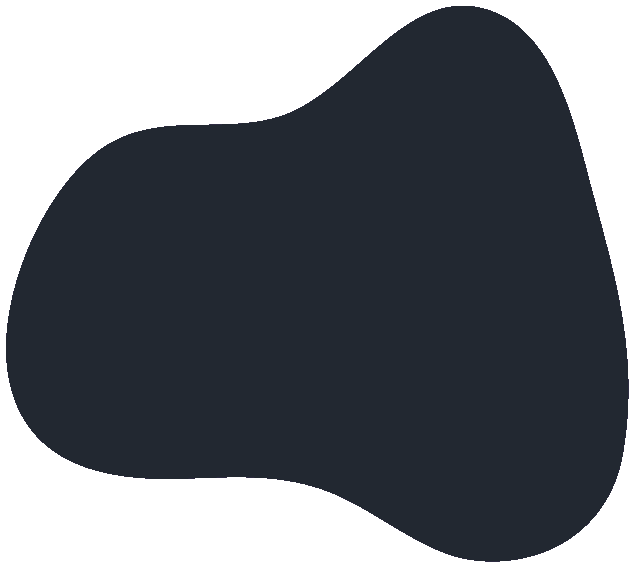
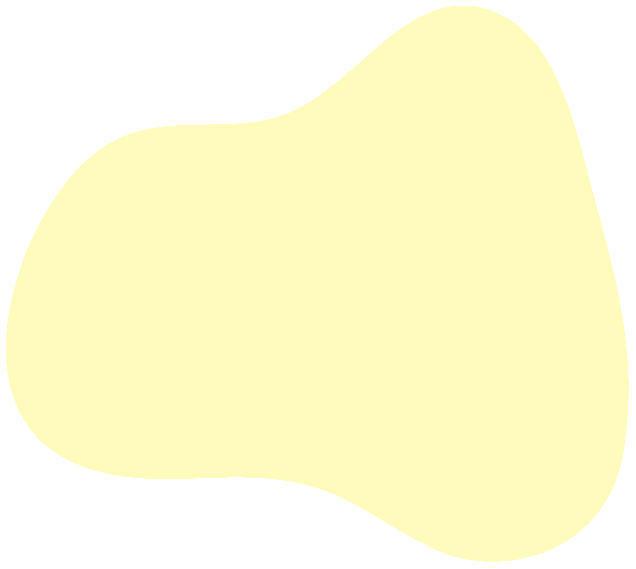
Updates

diff --git a/static/js/main.02143f5f.chunk.js b/static/js/main.02143f5f.chunk.js
@@ -1,0 +1,2 @@
+(this["webpackJsonpsouthern-legal-tech"]=this["webpackJsonpsouthern-legal-tech"]||[]).push([[0],{162:function(e,t,a){},230:function(e,t,a){e.exports=a(424)},235:function(e,t,a){},240:function(e,t,a){},241:function(e,t,a){},242:function(e,t,a){},243:function(e,t,a){},244:function(e,t,a){},247:function(e,t){},249:function(e,t){},289:function(e,t){},290:function(e,t){},423:function(e,t,a){},424:function(e,t,a){"use strict";a.r(t);var n=a(2),s=a.n(n),o=a(216),r=a.n(o),c=a(18),l=(a(235),a(27));function i(){var e=Object(n.useState)(!1),t=Object(c.a)(e,2),a=t[0],o=t[1];return s.a.createElement("div",{className:"header",id:"header"},s.a.createElement(l.b,{to:"/"},s.a.createElement("img",{src:"/southern-second-deploy/images/logo.png",alt:"logo-word",className:"logo-word"})),s.a.createElement("div",{className:a?"navbar drop":"navbar colapse"},s.a.createElement(l.b,{to:"/",className:"nav-element"},"Home",s.a.createElement("div",{className:"navline"})),s.a.createElement(l.b,{to:"/recibo",className:"nav-element"},"Documentos",s.a.createElement("div",{className:"navline"}))),s.a.createElement("i",{onClick:function(e){o((function(e){return!e}))},className:"fas fa-bars"}))}a(240);function m(){return s.a.createElement("div",{style:{marginBottom:80}},s.a.createElement("div",{className:"page-title grid-mobile"},s.a.createElement("div",null,s.a.createElement("h1",null,"La revoluci\xf3n de los documentos legales"),s.a.createElement("p",{className:"subtitle"},"Gener\xe1 tus documentos rapido y f\xe1cil. Contest\xe1 y descarg\xe1! ")),s.a.createElement("div",null," ",s.a.createElement("img",{src:"/southern-second-deploy/images/banderaArgentina.png",className:"image-small banderita"}))),s.a.createElement("div",{className:"grid-2 grid-mobile grid-center menu-grid center-div"},s.a.createElement("div",null,s.a.createElement("img",{src:"/southern-second-deploy/images/mujerdocu.png",className:"banner-image mobile-disapear"})),s.a.createElement("div",{className:"select-box  border-radius"},s.a.createElement("i",{class:"fas fa-file-signature doc-icon"}),s.a.createElement("p",{className:"selecciona"},"Seleccion\xe1 tu documento:"),s.a.createElement("select",{className:"dropdown",name:"documento"},s.a.createElement("option",{value:"",disabled:!0,selected:!0},"Documentos"),s.a.createElement("option",{value:"volvo"},"Alquiler"),s.a.createElement("option",{value:"saab"},"Condominio"),s.a.createElement("option",{value:"fiat"},"Contrato de obra"),s.a.createElement("option",{value:"audi"},"Poder general amplio"))," ",s.a.createElement(l.b,{to:"/recibo",className:"button-standard"},s.a.createElement("i",{class:"fas fa-pencil-alt"})," Comenzar!"),s.a.createElement("img",{src:"/southern-second-deploy/images/logo-grey.png",className:"logo-small"}))),s.a.createElement("h1",null,"Tu documento en minutos"),s.a.createElement("p",{className:"intro"},"Gener\xe1 cualquier documento legal que necesites en minutos. Solo tenes que responder algunas preguntas y nosotros armamos tu archivo con el documento listo para imprimir. Todos nuestros documentos estan validados por el colegio de abogados de la Republica Argentina."),s.a.createElement(l.b,{to:"/recibo",className:"button-standard"},"Comenzar ",s.a.createElement("i",{class:"fas fa-pencil-alt"})))}a(241);function u(){return s.a.createElement("div",{style:{marginBottom:80,marginTop:80}},s.a.createElement("h1",null,"Documentos"),s.a.createElement("div",{className:"doc-list"},s.a.createElement(l.b,{to:"/recibo",className:"doc-item"},"1. Recibo - $250"),s.a.createElement(l.b,{to:"/recibo",className:"doc-item"},"2. Pagar\xe9 - $250"),s.a.createElement(l.b,{to:"/recibo",className:"doc-item"},"3. Acuerdo de confidencialidad - $1500"),s.a.createElement(l.b,{to:"/recibo",className:"doc-item"},"4. Contrato de alquiler - $1500"),s.a.createElement(l.b,{to:"/recibo",className:"doc-item"},"5. Contrato de trabajo - $1500"),"\\            "))}a(242);function d(){return s.a.createElement("div",{className:"footer",id:"footer"},s.a.createElement("img",{src:"/southern-second-deploy/images/logo.png",className:"footer-logo",alt:"zoita wood"}),s.a.createElement("p",null,"Buenos Aires, Argentina"),s.a.createElement("p",null,"Tel / Whatsapp: +54 9 11 4545 9898"),s.a.createElement("a",{href:""},s.a.createElement("i",{className:"fab fa-instagram instagram"})))}a(243);function b(){return s.a.createElement("div",null,s.a.createElement("h1",{style:{marginBottom:30}},"3 Simples Pasos"),s.a.createElement("div",{className:"steps grid-mobile"},s.a.createElement("div",{className:"step mobile-margin"},s.a.createElement("div",{className:"step-box border-radius"},s.a.createElement("img",{src:"/southern-second-deploy/images/blob2.png",className:"blob"}),s.a.createElement("h4",{className:"step-title"},"1. Seleccion\xe1"),s.a.createElement("i",{class:"fas fa-file-signature step-icon "}),s.a.createElement("p",{className:"step-desc"},"Eleg\xed el tipo de documento de una lista de mas de 150 documentos confeccionados por abogados."," "))),s.a.createElement("div",{className:"step mobile-margin"},s.a.createElement("div",{className:"step-box  border-radius"},s.a.createElement("img",{src:"/southern-second-deploy/images/blob2.png",className:"blob"}),s.a.createElement("h4",{className:"step-title"},"2. Contest\xe1"),s.a.createElement("i",{class:"far fa-question-circle step-icon"}),s.a.createElement("p",{className:"step-desc"},"Contest\xe1 una serie de preguntas. A partir de tus respuestas vamos a desarrollar y generar el documento que hayas seleccionado."))),s.a.createElement("div",{className:"step mobile-margin"},s.a.createElement("div",{className:"step-box border-radius"},s.a.createElement("img",{src:"/southern-second-deploy/images/blob2.png",className:"blob"}),s.a.createElement("h4",{className:"step-title"},"3. Imprim\xed"),s.a.createElement("i",{class:"fas fa-print step-icon"}),s.a.createElement("p",{className:"step-desc"},"imprim\xed tu documento 100% terminado y aprobado por el colegio de abogados de la Rep\xfablica Argentina."," ")))),s.a.createElement(l.b,{to:"/create-document",className:"button-standard",style:{width:310}},s.a.createElement("i",{class:"fas fa-file-signature"})," \xa1Seleccion\xe1 tu documento!"))}var E=a(29),p=a(36),g=(a(79),function(e){var t=e.question,a=e.number,o=e.data,r=e.set,l=e.questions,i=e.setQuestions,m=Object(n.useState)(""),u=Object(c.a)(m,2),d=(u[0],u[1]),b=Object(n.useState)(!1),g=Object(c.a)(b,2),f=(g[0],g[1]);return s.a.createElement("form",{className:"form"},s.a.createElement("label",{className:"question"},"".concat(a,". ").concat(t)),s.a.createElement("input",{placeholder:"Respuesta",name:"answer",className:"answer",onChange:function(e){d(e.target.value),""===e.target.value?f(!1):f(!0);var n=Object(p.a)({},o,Object(E.a)({},a,e.target.value));r(n),i(Object(p.a)({},l,Object(E.a)({},a,t)))},value:o[a]}))}),f=function(e){var t=e.question,a=e.number,o=e.options,r=e.set,l=e.data,i=e.setExtra,m=e.questions,u=e.setQuestions,d=Object(n.useState)(""),b=Object(c.a)(d,2),g=b[0],f=b[1],v=Object(n.useState)(!1),q=Object(c.a)(v,2),N=(q[0],q[1]);return s.a.createElement("form",{className:"form"},s.a.createElement("label",{className:"question"},"".concat(a,". ").concat(t)),s.a.createElement("select",Object(E.a)({className:"select",value:g,onChange:function(e){!function(e){f(e.target.value),""===e.target.value?N(!1):N(!0);var n=Object(p.a)({},l,Object(E.a)({},a,e.target.value));r(n),i&&i(e.target.value),u(Object(p.a)({},m,Object(E.a)({},a,t)))}(e)}},"className","answer"),s.a.createElement("option",{value:"none"},"Seleccionar"),o.map((function(e){return s.a.createElement("option",{value:e},e)}))),s.a.createElement("br",null),l[a]&&s.a.createElement("label",null,"Seleccion actual: ",l[a]))},v=["enero","febrero","marzo","abril","mayo","junio","julio","agosto","septiembre","octubre","noviembre","diciembre"],q=function(e){var t=e.question,a=e.number,o=e.set,r=e.data,l=e.questions,i=e.setQuestions,m=Object(n.useState)(""),u=Object(c.a)(m,2),d=(u[0],u[1],Object(n.useState)(!1)),b=Object(c.a)(d,2),g=(b[0],b[1]),f=Object(n.useState)(""),q=Object(c.a)(f,2),N=q[0],j=q[1];return s.a.createElement("form",{className:"form"},s.a.createElement("label",{className:"question"},"".concat(a,".").concat(t)),s.a.createElement("input",{className:"answer",type:"date",value:N,onChange:function(e){!function(e){j(e.target.value),""===e.target.value?g(!1):g(!0);var n="".concat(new Date(e.target.value).getUTCDate()," de ").concat(v[new Date(e.target.value).getUTCMonth()]," del ").concat(new Date(e.target.value).getUTCFullYear()," "),s=Object(p.a)({},r,Object(E.a)({},a,n));o(s),i(Object(p.a)({},l,Object(E.a)({},a,t)))}(e)}}),s.a.createElement("br",null),r[a]&&s.a.createElement("label",null,"Fecha: ",r[a]))},N=["Buenos Aires","Catamarca","Chaco","Chubut","C\xf3rdoba","Corrientes","Entre R\xedos","Formosa","Jujuy","La Pampa","La Rioja","Mendoza","Misiones","Neuqu\xe9n","R\xedo Negro","Salta","San Juan","Santa Cruz","Santa Fe","Santiago del Estero","Tierra del Fuego","Tucum\xe1n"],j=(a(60),function(e){var t=e.provincia,a=e.ciudad,n=e.titulo,o=e.day,r=e.set,c=e.data,l=e.setQuestions,i=e.questions;return s.a.createElement("div",{className:"grid-2 grid-mobile"},s.a.createElement("div",null,t&&s.a.createElement(f,{question:"\xbfEn que provincia se firmar\xe1 el ".concat(n,"?:"),number:t,options:N,set:r,data:c,setQuestions:l,questions:i}),a&&s.a.createElement(g,{question:"\xbfEn que ciudad se firmar\xe1 el ".concat(n,"?:"),number:a,set:r,data:c,setQuestions:l,questions:i})),s.a.createElement("div",null,o&&s.a.createElement(q,{question:"\xbfEn que fecha se firmar\xe1 el ".concat(n,"?:"),number:o,set:r,data:c,setQuestions:l,questions:i})))}),h=function(e){var t=e.titulo,a=e.set,n=e.data,o=e.tipoPersona,r=e.nombre,c=e.dni,l=e.tipoDni,i=e.direccion,m=e.provincia,u=e.persona,d=e.setPersona,b=(e.doc,e.setDoc,e.message),E=e.setQuestions,p=e.questions;return s.a.createElement("div",null,b&&s.a.createElement("p",{className:"message"},b),s.a.createElement("div",{className:"grid-2  grid-mobile"},s.a.createElement("div",null,o&&s.a.createElement(f,{question:"\xbfEs una persona f\xedsica o jur\xeddica?:",number:o,options:["f\xedsica","jur\xeddica"],set:a,data:n,setExtra:d,setQuestions:E,questions:p}),"f\xedsica"===u&&r&&s.a.createElement(g,{question:"Nombre y apellidos completos:",number:r,set:a,data:n,setQuestions:E,questions:p}),"jur\xeddica"===u&&r&&s.a.createElement(g,{question:"Raz\xf3n Social (incluir tipo societario ej: Southern Legal Tech S.R.L.):",number:r,set:a,data:n,setQuestions:E,questions:p})),s.a.createElement("div",null,"f\xedsica"===u&&l&&s.a.createElement(f,{question:"Tipo de documento:",options:["DNI","pasaporte"],number:l,set:a,data:n,setQuestions:E,questions:p}),"jur\xeddica"===u&&l&&s.a.createElement(f,{question:"Tipo de identificaci\xf3n:",options:["CUIT"],number:l,set:a,data:n,setQuestions:E,questions:p}),"f\xedsica"===u&&c&&s.a.createElement(g,{question:"N\xfamero del documento:",number:c,set:a,data:n,setQuestions:E,questions:p}),"jur\xeddica"===u&&c&&s.a.createElement(g,{question:"N\xfamero de la identificacion/CUIT:",number:c,set:a,data:n,setQuestions:E,questions:p}),i&&s.a.createElement(g,{question:"Direcci\xf3n:",number:i,set:a,data:n,setQuestions:E,questions:p}),m&&s.a.createElement(f,{question:"\xbfEn que provincia se firmar\xe1 el ".concat(t,"?:"),number:m,options:N,set:a,data:n,setQuestions:E,questions:p}))))},y=function(e){var t=e.question,a=e.number,o=e.data,r=e.set,l=e.questions,i=e.setQuestions,m=Object(n.useState)(""),u=Object(c.a)(m,2),d=(u[0],u[1]),b=Object(n.useState)(!1),g=Object(c.a)(b,2),f=(g[0],g[1]);return s.a.createElement("form",{className:"form"},s.a.createElement("label",{className:"question"},"".concat(a,". ").concat(t)),s.a.createElement("input",{placeholder:"Respuesta",name:"answer",className:"answer",onChange:function(e){d(e.target.value),""===e.target.value?f(!1):f(!0);var n=e.target.value.replaceAll(".",""),s=Object(p.a)({},o,Object(E.a)({},a,n.toString().replace(/\B(?=(\d{3})+(?!\d))/g,".")));r(s),i(Object(p.a)({},l,Object(E.a)({},a,t)))},value:o[a]}))},O=["Pesos Argentinos (ARS)","D\xf3lares Estadounidenses (US$)","Euros (\u20ac)","Libras Esterlinas (\xa3)"],S=(a(244),function(e){e.titulo;var t=e.set,a=e.data,o=e.message,r=e.formaPago,l=e.montoEfe,i=e.monedaEfe,m=e.cheNumero,u=e.cheBanco,d=e.cheMoneda,b=e.cheMonto,E=e.cosa,p=e.cosaCant,v=e.criTipo,q=e.criMonto,N=e.motivo,j=e.setQuestions,h=e.questions,S=Object(n.useState)(""),C=Object(c.a)(S,2),Q=C[0],x=C[1];return s.a.createElement("div",null,o&&s.a.createElement("p",{className:"message"},o),s.a.createElement("div",{className:"grid-2  grid-mobile"},s.a.createElement("div",null,N&&s.a.createElement(g,{question:"Motivo o raz\xf3n del pago (ej: honorarios, expensas, alquiler, u otros):",number:N,set:t,data:a,setQuestions:j,questions:h}),r&&s.a.createElement(f,{question:"Forma de pago:",number:r,options:["efectivo","cheque","entrega de cosa","criptomoneda"],set:t,data:a,setExtra:x,setQuestions:j,questions:h}),"efectivo"===Q&&l&&s.a.createElement(y,{question:"Monto que se entrega(en numeros):",number:l,set:t,data:a,setQuestions:j,questions:h}),"cheque"===Q&&m&&s.a.createElement(g,{question:"N\xfamero de Cheque (en n\xfameros):",number:m,set:t,data:a,setQuestions:j,questions:h}),"cheque"===Q&&u&&s.a.createElement(g,{question:"Banco emisor del Cheque:",number:u,set:t,data:a,setQuestions:j,questions:h}),"entrega de cosa"===Q&&E&&s.a.createElement(g,{question:"Descripci\xf3n de la Cosa/Objeto que se entrega:",number:E,set:t,data:a,setQuestions:j,questions:h}),"entrega de cosa"===Q&&p&&s.a.createElement(g,{question:"cantidad de la Cosa/Objeto que se entrega:",number:p,set:t,data:a,setQuestions:j,questions:h}),"criptomoneda"===Q&&v&&s.a.createElement(g,{question:"Tipo de Criptomoneda:",number:v,set:t,data:a,setQuestions:j,questions:h})),s.a.createElement("div",null,"efectivo"===Q&&i&&s.a.createElement(f,{question:"Moneda:",options:O,number:i,set:t,data:a,setQuestions:j,questions:h}),"cheque"===Q&&b&&s.a.createElement(y,{question:"Monto que se entrega(en numeros):",number:b,set:t,data:a,setQuestions:j,questions:h}),"cheque"===Q&&d&&s.a.createElement(f,{question:"Moneda:",options:O,number:d,set:t,data:a,setQuestions:j,questions:h}),"criptomoneda"===Q&&q&&s.a.createElement(y,{question:"Cantidad de Criptomoneda entregada (en n\xfameros):",number:q,set:t,data:a,setQuestions:j,questions:h}))))}),C=function(e){var t=e.data,a=e.questions,o=Object(n.useState)([]),r=Object(c.a)(o,2),l=r[0],i=r[1],m=Object(n.useState)([]),u=Object(c.a)(m,2),d=u[0],b=u[1];return Object(n.useEffect)((function(){i(Object.entries(t)),b(Object.entries(a))}),[]),s.a.createElement("div",null,s.a.createElement("p",{className:"message"},"Respas\xe1 tus respuestas:"),s.a.createElement("p",{className:"recorda",style:{marginBottom:25}},"*Revis\xe1 ortograf\xeda, el uso de las may\xfasculas donde corresponda y los montos, cantidades y fechas."),s.a.createElement("div",null,s.a.createElement("div",null,l.map((function(e,t){return s.a.createElement("p",{className:"review-entry"},"".concat(e[0],". ").concat(d[t][1]," "),s.a.createElement("span",{className:"review-answer"},e[1]))})))),s.a.createElement("p",{className:"recorda"},"Record\xe1 que una vez que termines ya no podr\xe1s cambiar los datos. Si detect\xe1s alg\xfan error hac\xe9 click en anterior y modificalo."))},Q=function(e){var t=e.question;return s.a.createElement("form",{className:"form"},s.a.createElement("label",{className:"question"},"".concat(t)),s.a.createElement("input",{placeholder:"Respuesta",name:"answer",className:"answer"}))},x=function(){return s.a.createElement("div",null,"            ",s.a.createElement("p",{className:"message"},"Pago:"),s.a.createElement("p",{className:"message",style:{margin:20}},"$250"),s.a.createElement("img",{src:"/southern-second-deploy/images/cards.png",alt:"logo-word",className:"center-div cards"}),s.a.createElement("p",{className:"recorda"},"Pago 100% seguro a trav\xe9z de Stripe"),s.a.createElement("div",{className:"grid-2  grid-mobile"},s.a.createElement("div",null,s.a.createElement(Q,{question:"Titular de la tarjeta:"}),s.a.createElement(Q,{question:"DNI del titular de la tarjeta:"})),s.a.createElement("div",null,s.a.createElement(Q,{question:"N\xfamero de tarjeta:"}),s.a.createElement(Q,{question:"Fecha de vencimiento:"}),s.a.createElement(Q,{question:"C\xf3digo de seguridad:"}))))},w=(a(162),function(e){var t=e.text,a=e.title;return s.a.createElement("div",{className:"description center-div"},s.a.createElement("div",{className:"flex"},s.a.createElement("h1",null,a),s.a.createElement("i",{className:"fas fa-file-signature document-icon"})),s.a.createElement("p",null,t))}),T=a(30),A=T.d.create({body:{paddingTop:35,paddingBottom:65,paddingHorizontal:35},title:{fontSize:24,textAlign:"center",fontFamily:"Times-Roman"},author:{fontSize:12,textAlign:"center",marginBottom:40},subtitle:{fontSize:18,margin:12},text:{margin:12,fontSize:14,textAlign:"justify",fontFamily:"Times-Roman"},image:{marginVertical:15,marginHorizontal:100},header:{fontSize:12,marginBottom:20,textAlign:"center",color:"grey"},pageNumber:{position:"absolute",fontSize:12,bottom:30,left:0,right:0,textAlign:"center",color:"grey"},signature:{position:"relative",left:370,top:80},textSig:{margin:2,fontSize:14,textAlign:"justify",fontFamily:"Times-Roman"}}),R=function(){var e=Object(n.useState)({}),t=Object(c.a)(e,2),a=t[0],o=t[1],r=Object(n.useState)({}),l=Object(c.a)(r,2),i=l[0],m=l[1],u=Object(n.useState)(1),d=Object(c.a)(u,2),b=d[0],E=d[1],p=Object(n.useState)(""),g=Object(c.a)(p,2),f=g[0],v=g[1],q=Object(n.useState)(""),N=Object(c.a)(q,2),y=N[0],O=N[1];Object(n.useEffect)((function(){window.scrollTo(0,0)}),[]);var Q=function(){return s.a.createElement(T.a,null,s.a.createElement(T.c,{size:"A4",style:A.body},s.a.createElement(T.e,{style:A.header,fixed:!0},"~ Documento creado con Southern Legal Tech ~"),s.a.createElement(T.e,{style:A.title},"Recibo de pago"),s.a.createElement(T.f,{style:{marginTop:20}},"cheque"===a[13]?s.a.createElement(T.e,{style:A.text},"En ",a[2],", ",a[1],", al  ",a[3],", recib\xed de ",a[5],", ",a[6]," n\xb0: ",a[7],", un cheque emitido por ",a["13b"]," por ",a["13c"]," ",a["13d"]," bajo el n\xfamero  ",a["13a"],", en concepto de ",a[12],"."):null,"entrega de cosa"===a[13]?s.a.createElement(T.e,{style:A.text},"En ",a[2],", ",a[1],", al  ",a[3],", recib\xed de ",a[5],", ",a[6]," n\xb0: ",a[7],", ",a["13b"]," ",a["13a"],", en concepto de ",a[12],"."):null,"criptomoneda"===a[13]?s.a.createElement(T.e,{style:A.text},"En ",a[2],", ",a[1],", al  ",a[3],", recib\xed de ",a[5],", ",a[6]," n\xb0: ",a[7],", la cantidad de ",a["13b"]," ",a["13a"]," (criptomoneda), en concepto de ",a[12],"."):null,"efectivo"===a[13]?s.a.createElement(T.e,{style:A.text},"En ",a[2],", ",a[1],", al  ",a[3],", recib\xed de ",a[5],", ",a[6]," n\xb0: ",a[7],", la cantidad de ",a["13b"]," ",a["13a"]," en ",a[13],", en concepto de ",a[12],"."):null),s.a.createElement(T.f,{style:A.signature},s.a.createElement(T.e,{style:A.textSig},a[9]),s.a.createElement(T.e,{style:A.textSig},a[10]," ",a[11]))))};return s.a.createElement("div",null,s.a.createElement(w,{title:"Recibo",text:"Un recibo o justificante de pago es un documento mediante el cual una persona reconoce haber recibido una cantidad de dinero de otra persona. El recibo constituye la prueba de que un pago ha sido efectuado. Este documento puede servir como justificante del pago de cualquier cantidad"}),s.a.createElement("div",{className:"create-box"},s.a.createElement("h2",{className:"center-text question-description"},"Contest\xe1 las siguientes preguntas:"),1===b&&s.a.createElement(j,{titulo:"recibo",provincia:1,ciudad:2,day:3,set:o,data:a,setQuestions:m,questions:i}),2===b&&s.a.createElement(h,{titulo:"recibo",tipoPersona:4,nombre:5,tipoDni:6,dni:7,set:o,data:a,setQuestions:m,persona:f,setPersona:v,message:"El pagador",questions:i}),3===b&&s.a.createElement(h,{titulo:"recibo",tipoPersona:8,nombre:9,tipoDni:10,dni:11,set:o,data:a,setQuestions:m,persona:y,setPersona:O,message:"El Acreedor (Quien recibe el pago)",questions:i}),4===b&&s.a.createElement(S,{titulo:"recibo",set:o,data:a,setQuestions:m,message:"El pago",formaPago:13,monedaEfe:"13a",montoEfe:"13b",cheNumero:"13a",cheBanco:"13b",cheMonto:"13c",cheMoneda:"13d",cosa:"13a",cosaCant:"13b",criTipo:"13a",criMonto:"13b",motivo:12,questions:i}),5===b&&s.a.createElement(C,{data:a,questions:i}),6===b&&s.a.createElement(x,{data:a,questions:i}),s.a.createElement("p",{className:"end-note"},"*Al terminar de responder todas las preguntas tu documento se generar\xe1 automaticamente y podr\xe1s descargarlo."),s.a.createElement("div",{className:"button-box flex  grid-mobile"},b>1&&s.a.createElement("a",{className:"question-button button-primary",onClick:function(){return E((function(e){return e-1}))}},"Anterior"),b<6&&s.a.createElement("a",{className:"question-button button-primary",onClick:function(){return E((function(e){return e+1}))}},"Siguiente"),6===b&&s.a.createElement("span",{className:"question-button button-primary"}," ",s.a.createElement(T.b,{document:s.a.createElement(Q,null),fileName:"Recibo.pdf",style:{color:"white",textDecoration:"none"}},(function(e){e.blob,e.url;var t=e.loading;e.error;return t?"Loading document...":"Pagar y Descargar!"})))),s.a.createElement("p",{className:"page-number"},b,"/6")))},z=a(24);var D=function(){return s.a.createElement("div",{className:"App"},s.a.createElement(i,null),s.a.createElement("div",{className:"mobile-padding"},s.a.createElement(z.a,{exact:!0,path:"/"},s.a.createElement(m,null),s.a.createElement(b,null),s.a.createElement(u,null)),s.a.createElement(z.a,{path:"/recibo"},s.a.createElement(R,null))),s.a.createElement(d,null))};a(423);r.a.render(s.a.createElement(l.a,{basename:"/southern-second-deploy"},s.a.createElement(D,null)),document.getElementById("root"))},60:function(e,t,a){},79:function(e,t,a){}},[[230,1,2]]]);
+//# sourceMappingURL=main.02143f5f.chunk.js.map

diff --git a/static/css/main.b7987236.chunk.css b/static/css/main.b7987236.chunk.css
@@ -1,0 +1,2 @@
+.header{display:flex;grid-template-columns:repeat(2,auto);justify-content:space-between;align-items:center;background-color:#393e46;height:80px;color:#fff;z-index:1}.logo-word{height:70px;cursor:pointer;margin-left:5px}.navbar{display:grid;grid-template-columns:repeat(2,auto);grid-gap:10px;font-size:1.2rem;justify-content:center;align-items:center}.nav-element,.navbar{transition:all .3s ease-out}.nav-element{cursor:pointer;padding:0 7px;text-decoration:none;color:inherit;position:relative;height:20px;margin:auto 0;top:-3px}.nav-element:hover{border-radius:5px;color:#ffd369}.fa-bars{position:absolute;right:0;margin-right:20px;font-size:1.7rem;top:50%;transform:translateY(-50%);display:none}@media (min-width:900px){.navbar{margin-right:20px;height:100%}.nav-element{height:100%;display:flex;flex-direction:column;justify-content:center;align-items:center;width:auto;margin-left:20px}.navline{height:10px;width:90%;background-color:#ffd369;position:absolute;bottom:-4px}}@media (max-width:900px){.header{display:block;position:relative}.nav-element{margin:20px 0 0}.logo-word{position:absolute;left:0;top:50%;transform:translateY(-50%)}.navbar{display:flex;position:absolute;top:70px;flex-direction:column;left:-150%;width:100%;transition:left .5s ease-out,background-color .5s ease-out,color 1s ease-out;color:#d4d7dd}.navbar.drop{left:0;top:70px;background-color:#393e46;color:#fff;transition:left .5s ease-out,background-color .5s ease-out,color .6s ease-out;z-index:1}.fa-bars{display:inline;display:initial}.nav-element{height:45px}}.HomeTop{display:grid;color:#fff;position:relative;grid-template-columns:1fr 1fr;justify-items:center;align-items:center}.page-title{display:flex;align-items:center;justify-content:center;margin:50px 0}.subtitle{font-weight:600;font-size:1.3rem}.banner-image{width:550px;position:relative;left:-100px}.menu-grid{max-width:800px;margin-bottom:80px}.blob{width:100%}.select-box{background-color:#fff;color:#6d6d6d;padding:30px 1px;position:relative;left:50%;transform:translateX(-50%);width:400px;box-shadow:0 3px 5px 0 rgba(0,0,0,.29)}.doc-icon{font-size:4rem;color:#c5c5c5;margin:0 0 20px}.selecciona{margin-bottom:20px;width:250px;font-size:1.2rem;position:relative;left:50%;transform:translateX(-50%)}.dropdown{height:30px;border-radius:7px;border:none;font-family:roboto,sans-serif;color:#fff;background-color:#505050;margin-bottom:25px}.dropdown,.logo-small{width:200px}.intro{font-size:1.2rem;width:700px;max-width:90%;position:relative;left:50%;transform:translateX(-50%);margin-bottom:50px}@media (min-width:571px){.banderita{margin-left:60px}}@media (max-width:571px){.select-box{width:300px}.banderita{margin-top:20px;margin-bottom:-20px}}.doc-list{margin:20px 0}.doc-item{font-size:1.3rem;text-decoration:none;transition:all .2s;display:block;margin-bottom:10px;color:#535353}.doc-item:hover{color:#ffd369}.footer{background-color:#393e46;padding-top:25px;height:290px;display:flex;flex-direction:column;justify-content:space-around;justify-items:center;align-items:center;color:#fff}.footer-logo{width:250px}.instagram{font-size:3rem;margin-bottom:15px;cursor:pointer;text-decoration:none;color:#fff}.steps{display:grid;grid-template-columns:1fr 1fr 1fr;justify-items:center;align-items:center;margin-bottom:80px}.step-box{width:300px;height:280px;padding:10px;position:relative}.step-title{font-size:2rem;font-family:bebas-neue-pro,sans-serif;font-weight:700;font-style:normal;margin:0 0 20px;position:relative}.step-icon{font-size:3rem;margin-bottom:20px;position:relative}.blob{position:absolute;width:270px;top:50%;left:50%;transform:translate(-50%,-50%)}.step-desc{width:90%;position:relative;left:50%;transform:translateX(-50%)}.folders{width:100%;max-height:400px;max-width:1300px;object-fit:cover;margin:40px 0}.aproval{display:grid;grid-template-columns:1fr 1fr 1fr;justify-items:center;align-items:center;margin-bottom:25px}.bogas,.uca{height:150px;width:auto}.long{width:300px}.answer{height:30px;width:200px;border-radius:10px;font-size:1rem;color:#fff;background-color:#424242;display:inline;border:hidden;padding:0;text-align:center;margin-bottom:5px}.question{margin-right:20px;display:block;margin-bottom:10px}.form{margin:0 0 20px}@media(max-width:500px){.answer{position:relative;left:50%;transform:translateX(-50%)}}.review-answer{color:#00f;font-size:1rem}.recorda{margin-top:25px}.cards{width:400px}@media (max-width:500px){.cards{width:80%}}.message{margin:20px 0;text-align:center;font-size:1.5rem}.description{background-color:#fff;width:90%;padding:30px 5%;color:#6b6b6b;font-size:1rem;margin:20px 0}.document-icon{font-size:2rem;margin-left:20px}.create-box{width:90%;height:auto;padding:30px 5%;background-color:#fff;border-radius:15px;position:relative;left:50%;transform:translateX(-50%);box-shadow:2px 9px 6px -5px rgba(0,0,0,.34);text-align:left;margin-bottom:50px}.question-description{margin-bottom:30px}.end-note{font-size:.8rem;color:grey}.question-button{margin:10px 40px}.page-number{text-align:center}.button-box{margin-top:60px!important}*{margin:0;padding:0;box-sizing:border-box}body{background-color:#eee;color:#535353;font-weight:400;font-style:normal;text-align:center;font-family:titillium-web,sans-serif}@media (max-width:570px){.mobile-padding{padding:0 10px}}h1{font-family:bebas-neue-by-fontfabric,sans-serif;font-weight:700;font-style:normal;font-size:3rem}.center-div{position:relative;left:50%;transform:translateX(-50%)}.center-text{text-align:center}.flex{display:flex;flex-direction:row;justify-items:center;justify-content:center;align-items:center}.grid{display:grid}.grid-center{justify-content:center;align-items:center}.grid-2{display:grid;grid-template-columns:1fr 1fr}.grid-3,.grid-4{display:grid;grid-template-columns:1fr 1fr 1fr}@media (max-width:570px){.grid-mobile{display:grid;grid-template-columns:1fr}.mobile-disapear{display:none}.mobile-margin{margin:25px 0}}.button-standard{display:block;padding:.7em 1.7em;border-radius:.4em;box-sizing:border-box;text-decoration:none;font-family:"Roboto",sans-serif;font-size:1.1rem;font-weight:400;color:#fff;background-color:#393e46;box-shadow:inset 0 -.6em 1em -.35em rgba(0,0,0,.17),inset 0 .6em 2em -.3em hsla(0,0%,100%,.15),inset 0 0 0 .05em hsla(0,0%,100%,.12);text-align:center;position:relative;top:-20px;margin:25px 0 0;transition:all .3s;width:200px;left:50%;transform:translateX(-50%);cursor:pointer}.button-standard:hover{background-color:#ffd369}.button-primary{padding:.5em 1.4em;border-radius:.4em;box-sizing:border-box;text-decoration:none;font-family:"Roboto",sans-serif;font-size:1.1rem;font-weight:400;color:#fff;background-color:#505050;box-shadow:inset 0 -.6em 1em -.35em rgba(0,0,0,.17),inset 0 .6em 2em -.3em hsla(0,0%,100%,.15),inset 0 0 0 .05em hsla(0,0%,100%,.12);text-align:center;transition:all .3s;min-width:200px;cursor:pointer;white-space:nowrap}.button-primary:hover{background-color:#202020;color:#b5b5ff}.image-small{width:100px}.image-medium{width:200px}.image-large{width:400px}.image100{width:100%}.image90{width:90%}.yellow{color:#ffd369}.light-yellow{color:#fff895}.dark-back{background-color:#393e46}.yellow-back{background-color:#ffd369}.light-yellow-back{background-color:#fff895}.border-radius{border-radius:7px}
+/*# sourceMappingURL=main.b7987236.chunk.css.map */

diff --git a/index.html b/index.html
@@ -1,1 +1,1 @@
-<!doctype html><html lang="en"><head><meta charset="utf-8"/><meta name="viewport" content="width=device-width,initial-scale=1"/><link rel="stylesheet" href="https://use.typekit.net/muk0qno.css"/><link href="https://unpkg.com/aos@2.3.1/dist/aos.css" rel="stylesheet"/><script src="https://unpkg.com/aos@2.3.1/dist/aos.js"></script><script src="https://kit.fontawesome.com/4bad990581.js" crossorigin="anonymous"></script><meta name="theme-color" content="#000000"/><meta name="description" content="Web site created using create-react-app"/><title>Souther Legal Tech</title><link href="/southern-second-deploy/static/css/main.763273ac.chunk.css" rel="stylesheet"></head><body><noscript>You need to enable JavaScript to run this app.</noscript><div id="root"></div><script>!function(e){function t(t){for(var n,l,a=t[0],c=t[1],f=t[2],p=0,s=[];p<a.length;p++)l=a[p],Object.prototype.hasOwnProperty.call(o,l)&&o[l]&&s.push(o[l][0]),o[l]=0;for(n in c)Object.prototype.hasOwnProperty.call(c,n)&&(e[n]=c[n]);for(i&&i(t);s.length;)s.shift()();return u.push.apply(u,f||[]),r()}function r(){for(var e,t=0;t<u.length;t++){for(var r=u[t],n=!0,a=1;a<r.length;a++){var c=r[a];0!==o[c]&&(n=!1)}n&&(u.splice(t--,1),e=l(l.s=r[0]))}return e}var n={},o={1:0},u=[];function l(t){if(n[t])return n[t].exports;var r=n[t]={i:t,l:!1,exports:{}};return e[t].call(r.exports,r,r.exports,l),r.l=!0,r.exports}l.m=e,l.c=n,l.d=function(e,t,r){l.o(e,t)||Object.defineProperty(e,t,{enumerable:!0,get:r})},l.r=function(e){"undefined"!=typeof Symbol&&Symbol.toStringTag&&Object.defineProperty(e,Symbol.toStringTag,{value:"Module"}),Object.defineProperty(e,"__esModule",{value:!0})},l.t=function(e,t){if(1&t&&(e=l(e)),8&t)return e;if(4&t&&"object"==typeof e&&e&&e.__esModule)return e;var r=Object.create(null);if(l.r(r),Object.defineProperty(r,"default",{enumerable:!0,value:e}),2&t&&"string"!=typeof e)for(var n in e)l.d(r,n,function(t){return e[t]}.bind(null,n));return r},l.n=function(e){var t=e&&e.__esModule?function(){return e.default}:function(){return e};return l.d(t,"a",t),t},l.o=function(e,t){return Object.prototype.hasOwnProperty.call(e,t)},l.p="/southern-second-deploy/";var a=this["webpackJsonpsouthern-legal-tech"]=this["webpackJsonpsouthern-legal-tech"]||[],c=a.push.bind(a);a.push=t,a=a.slice();for(var f=0;f<a.length;f++)t(a[f]);var i=c;r()}([])</script><script src="/southern-second-deploy/static/js/2.09652de2.chunk.js"></script><script src="/southern-second-deploy/static/js/main.a89f5f6c.chunk.js"></script></body></html><script type="text/javascript">AOS.init({once:!0,duration:4e3})</script>
+<!doctype html><html lang="en"><head><meta charset="utf-8"/><meta name="viewport" content="width=device-width,initial-scale=1"/><link rel="stylesheet" href="https://use.typekit.net/muk0qno.css"/><link href="https://unpkg.com/aos@2.3.1/dist/aos.css" rel="stylesheet"/><script src="https://unpkg.com/aos@2.3.1/dist/aos.js"></script><script src="https://kit.fontawesome.com/4bad990581.js" crossorigin="anonymous"></script><meta name="theme-color" content="#000000"/><meta name="description" content="Web site created using create-react-app"/><title>Souther Legal Tech</title><link href="/southern-second-deploy/static/css/main.b7987236.chunk.css" rel="stylesheet"></head><body><noscript>You need to enable JavaScript to run this app.</noscript><div id="root"></div><script>!function(e){function t(t){for(var n,l,a=t[0],c=t[1],f=t[2],p=0,s=[];p<a.length;p++)l=a[p],Object.prototype.hasOwnProperty.call(o,l)&&o[l]&&s.push(o[l][0]),o[l]=0;for(n in c)Object.prototype.hasOwnProperty.call(c,n)&&(e[n]=c[n]);for(i&&i(t);s.length;)s.shift()();return u.push.apply(u,f||[]),r()}function r(){for(var e,t=0;t<u.length;t++){for(var r=u[t],n=!0,a=1;a<r.length;a++){var c=r[a];0!==o[c]&&(n=!1)}n&&(u.splice(t--,1),e=l(l.s=r[0]))}return e}var n={},o={1:0},u=[];function l(t){if(n[t])return n[t].exports;var r=n[t]={i:t,l:!1,exports:{}};return e[t].call(r.exports,r,r.exports,l),r.l=!0,r.exports}l.m=e,l.c=n,l.d=function(e,t,r){l.o(e,t)||Object.defineProperty(e,t,{enumerable:!0,get:r})},l.r=function(e){"undefined"!=typeof Symbol&&Symbol.toStringTag&&Object.defineProperty(e,Symbol.toStringTag,{value:"Module"}),Object.defineProperty(e,"__esModule",{value:!0})},l.t=function(e,t){if(1&t&&(e=l(e)),8&t)return e;if(4&t&&"object"==typeof e&&e&&e.__esModule)return e;var r=Object.create(null);if(l.r(r),Object.defineProperty(r,"default",{enumerable:!0,value:e}),2&t&&"string"!=typeof e)for(var n in e)l.d(r,n,function(t){return e[t]}.bind(null,n));return r},l.n=function(e){var t=e&&e.__esModule?function(){return e.default}:function(){return e};return l.d(t,"a",t),t},l.o=function(e,t){return Object.prototype.hasOwnProperty.call(e,t)},l.p="/southern-second-deploy/";var a=this["webpackJsonpsouthern-legal-tech"]=this["webpackJsonpsouthern-legal-tech"]||[],c=a.push.bind(a);a.push=t,a=a.slice();for(var f=0;f<a.length;f++)t(a[f]);var i=c;r()}([])</script><script src="/southern-second-deploy/static/js/2.09652de2.chunk.js"></script><script src="/southern-second-deploy/static/js/main.02143f5f.chunk.js"></script></body></html><script type="text/javascript">AOS.init({once:!0,duration:4e3})</script>

diff --git a/precache-manifest.686cb79e715862b07c5e43e5d9ad8ee3.js b/precache-manifest.686cb79e715862b07c5e43e5d9ad8ee3.js
@@ -1,11 +1,11 @@
 self.__precacheManifest = (self.__precacheManifest || []).concat([
   {
-    "revision": "cc51fa37535a0da10de5b0d5171a5c7c",
+    "revision": "d2c4a88a5da5d14e26bbf82b90f64ec7",
     "url": "/southern-second-deploy/index.html"
   },
   {
-    "revision": "d4e7c544021afb92e8f8",
-    "url": "/southern-second-deploy/static/css/main.763273ac.chunk.css"
+    "revision": "026d012f6ce9c3642c9b",
+    "url": "/southern-second-deploy/static/css/main.b7987236.chunk.css"
   },
   {
     "revision": "fb2de9c161ca72998dd3",
@@ -16,8 +16,8 @@ self.__precacheManifest = (self.__precacheManifest || []).concat([
     "url": "/southern-second-deploy/static/js/2.09652de2.chunk.js.LICENSE.txt"
   },
   {
-    "revision": "d4e7c544021afb92e8f8",
-    "url": "/southern-second-deploy/static/js/main.a89f5f6c.chunk.js"
+    "revision": "026d012f6ce9c3642c9b",
+    "url": "/southern-second-deploy/static/js/main.02143f5f.chunk.js"
   },
   {
     "revision": "e4eb19c84756ac9ef986",

diff --git a/service-worker.js b/service-worker.js
@@ -14,7 +14,7 @@
 importScripts("https://storage.googleapis.com/workbox-cdn/releases/4.3.1/workbox-sw.js");
 
 importScripts(
-  "/southern-second-deploy/precache-manifest.6db1c7e635a52b24e4ad04e10431031c.js"
+  "/southern-second-deploy/precache-manifest.686cb79e715862b07c5e43e5d9ad8ee3.js"
 );
 
 self.addEventListener('message', (event) => {
